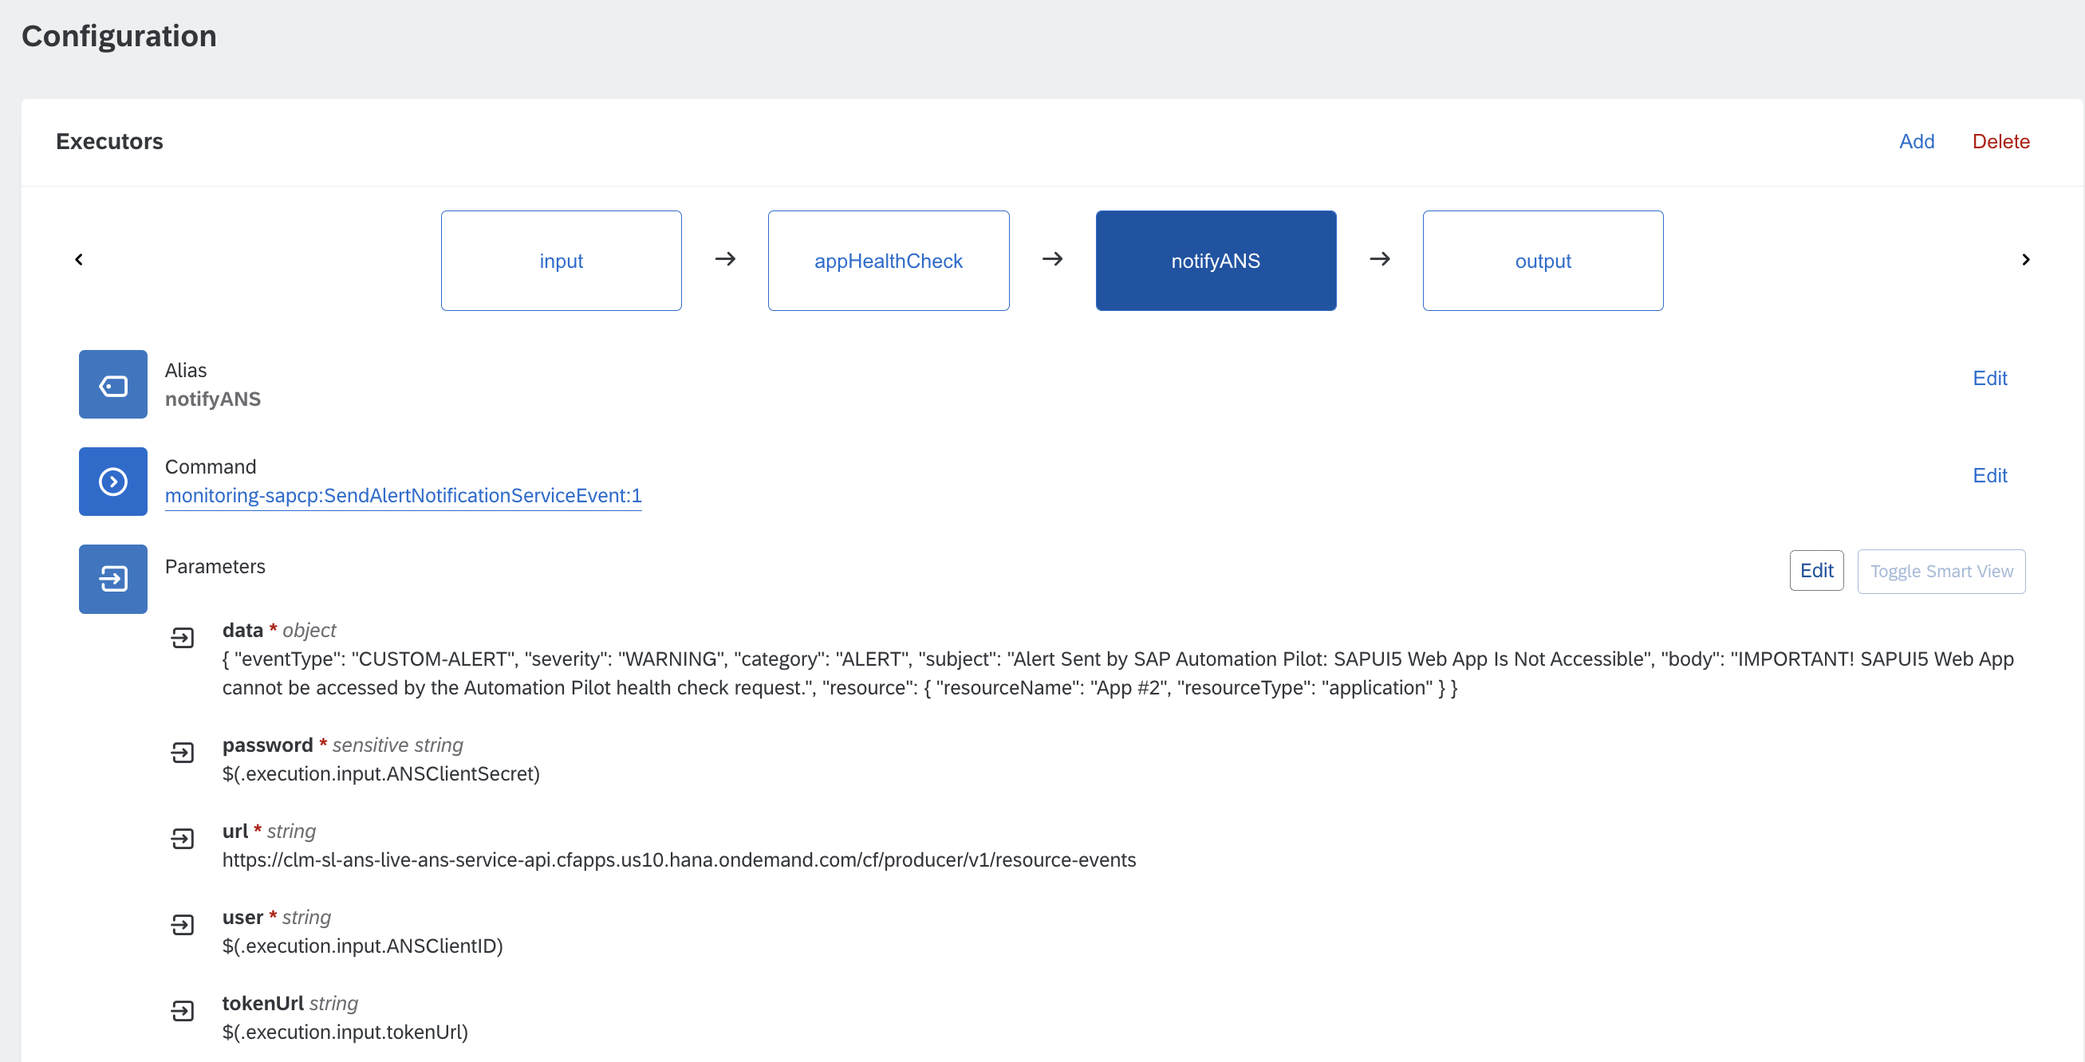
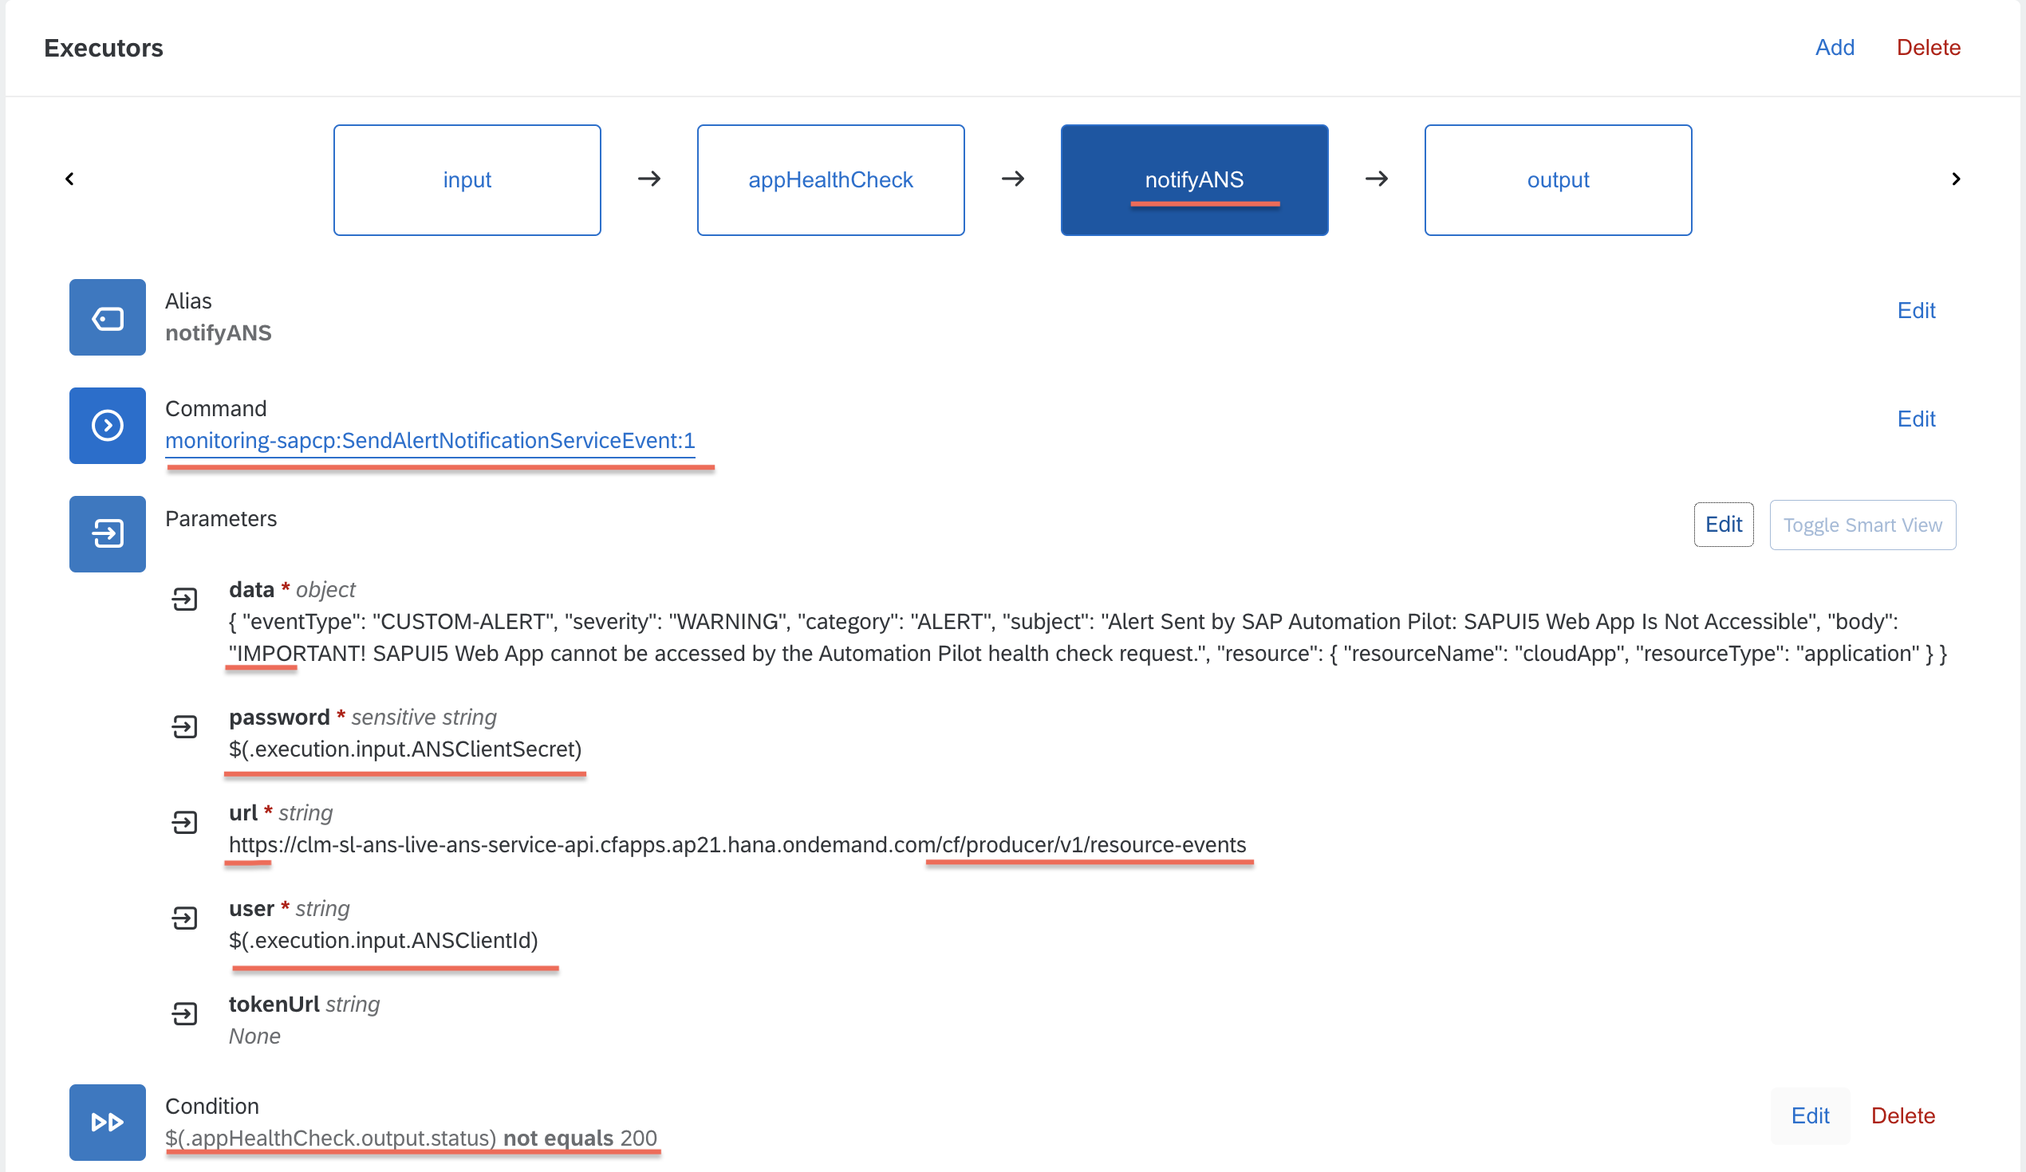
Formatting of ex1

diff --git a/exercises/1/README.md b/exercises/1/README.md
@@ -1,6 +1,6 @@
 # Exercise 2 - Description
 
-Within this execercise we are going to cover a potential use case of a development team that has developed an SAPUI5 Web App deployed on SAP BTP Cloud Foundry. However, sometimes there are disruptions / outages with their SAPUI5 Web App. The app is consumed through the SAP Launchpad service providing a central entry point with an easy and efficient access to relevant applications for the business users. Nevertheless, for a certain duration the app becomes inaccessible randomly for different users and as of now there are not any alerts sent out.   
+Within this execercise we are going to cover a potential use case of a development team that has developed an SAPUI5 Web App deployed on SAP BTP Cloud Foundry. The app is consumed through the SAP Launchpad service providing a central entry point with an easy and efficient access to relevant applications for the business users. Nevertheless, if the app becomes randomly inaccessible for a certain duration, as of now there are not alerts of that unavailability sent out.   
 
 ## Main goal
 By using monitoring and automation services within the SAP BTP DevOps portfolio, we should be capable to build an integrated monitoring and health checks solution for the SAP UI5 app, so that in case of a disruption there is an alert fired immediately.  
@@ -8,7 +8,7 @@ By using monitoring and automation services within the SAP BTP DevOps portfolio,
 ## Additional preparation
 (covered also during the workshop) 
 
-**IMPORTANT**: For the purpose of this excercise we will use the Cloud UI5 Application already created in the previous excercise, please see: [Exercise 1 - Build a Cloud UI5 Applicaiton on SAP Business Application Studio](../ex2/README.md)
+**IMPORTANT**: For the purpose of this excercise we will use the Cloud UI5 Application already created in the previous excercise, please see: [Exercise 1 - Build a Cloud UI5 Applicaiton on SAP Business Application Studio](../2/README.md)
 
 1. Configure your global account and subaccount in BTP 
 2. [Setup Alert Notification service](https://help.sap.com/docs/ALERT_NOTIFICATION/5967a369d4b74f7a9c2b91f5df8e6ab6/812b6e3ed8934648ad15780cd51721ef.html) 
@@ -23,6 +23,7 @@ These are the best resources to start from:
 - [SAP BTP Product Page ](https://help.sap.com/viewer/product/CP/Cloud/en-US?task=discover_task)
 - [What Is SAP BTP](https://help.sap.com/viewer/3504ec5ef16548778610c7e89cc0eac3/Cloud/en-US/73beb06e127f4e47b849aa95344aabe1.html)
 - [Cloud Foundry Environment](https://help.sap.com/viewer/3504ec5ef16548778610c7e89cc0eac3/Cloud/en-US/9c7092c7b7ae4d49bc8ae35fdd0e0b18.html)
+- [Kyma Environment](https://help.sap.com/docs/BTP/65de2977205c403bbc107264b8eccf4b/468c2f3c3ca24c2c8497ef9f83154c44.html)
 
 **2. Learn the basics of SAP Alert Notification service for SAP BTP**
 SAP Alert Notification service for SAP BTP is a cloud service offering in SAP Business Technology Platform (BTP) DevOps portfolio. It is a real-time alerting engine which is designed to collect alerts from different providers. Customers can subscribe to the alerts of their interest and choose the most appropriate channel for delivery. The service masters in collecting crucial technical information from the SAP BTP service, also it can handle information regarding any custom scenario within your own environment.  
@@ -34,7 +35,7 @@ The primary goal of SAP Automation Pilot is to simplify and automate complex
 
 ## Exercise: Concept
 
-The solution to be built is based on a synergy and native integration between the SAP Alert Notification Service and  SAP Automation Pilot as integrating their existing capabilities for Ops automation and Alerting in SAP BTP we can build the needed SAPUI5 Web App health check monitoring.  
+The solution to be built is based on a synergy and native integration between the SAP Alert Notification Service and  SAP Automation Pilot as integrating their existing capabilities for Ops automation and Alerting in SAP BTP we can build the needed SAPUI5 Web App health check monitoring. Using those powerful primitives of those services, interaction with complex app API and real-user-like monitoring can be easily achieved just as well.
 
 The architecture design covers the assumptions as listed below:  
 - There is an application health-check endpoint that to be called regularly  
@@ -63,12 +64,12 @@ Diagram explained:
 
 
 # Exercise 1 - Implementation
-
 **1. Cloud UI5 app health-check endpoint**
-- Within the already existing Cloud UI5 app please we need to setup a health-check endpoint. You can build the endpoint as an simple html file which is to be named `health-check.html`  
+
+- Within the already existing Cloud UI5 app please we need to setup a health-check endpoint. You can build the endpoint as a simple html file which is to be named `health-check.html`  
 <br>![](/exercises/1/images/01_03.png)
 NOTE: adding the html code underneath as well:
-```
+```html
 <!DOCTYPE html>
 <html>
     <body>
@@ -78,120 +79,137 @@ NOTE: adding the html code underneath as well:
     </body>
 </html>
 ```
-
-- In order to call the specific html file from Automation Pilot perspective you should include the following settings within the `xs-app.json` file within your SAP UI5 app. 
+- In order to query the specific html file without authorization, you should include the following settings within the `xs-app.json` file into your SAP UI5 app.
 <br>![](/exercises/1/images/01_04.png)
-
-NOTE: adding the settings undeneath as well: 
-```
- {
-      "source": "^/health-check.html$",
-      "service": "html5-apps-repo-rt",
-      "httpMethods": ["GET", "POST"],
-      "authenticationType": "none"
-    },
-
+```json
+{
+  "source": "^/health-check.html$",
+  "service": "html5-app-repo-rt",
+  "httpMethods": ["GET","POST"],
+  "authenticationType": "none"
+}
 ```
 
 - Build and redeploy the application via the SAP Business Applicaiton Studio (same steps as the ones for build app package and deployment described in Excercise #1) 
 
-- Check the health-check endpoint it is accessible for anonymous users. 
+- Check the health-check endpoint it is accessible for an anonymous users. 
 <br>![](/exercises/1/images/01_04_1.png)
 
-**2. SAP Automation Pilot health-check command**  
+**2. Setup Alert Notification**
+- To setup Alert Notification service for SAP BTP, go to the BTP cockpit, navigate to the subaccount, `Cloud Foundry` -> `Spaces` tab and enter your space.
+- Navigate to the `Marketplace` and on the `Alert Notification` card menu, coose `create`. Give it a name, default configurations will do.
+<br>![](/exercises/1/images/01_04_1_1.png)
+- In the `Instances` tab in the same space you'll find the service newly created instance. For it, create a service key with which the service API will be accessed.
+<br>NOTE: For the Configuration Json parameters use: 
+  ```json
+  {
+    "type": "BASIC"
+  }
+  ```
+  <br>![](/exercises/1/images/01_04_2.png)
+- From here, you're able to view the service key credentials and use them to grant other services access to this particular ANS instance, e.g. the Automation Pilot.
+<br>Keep them for a moment as we will need the credentials soon. 
+<br>![](/exercises/1/images/01_04_3.png)
+                
 
-- Access the Alert Notification service cockput and navigate to **Service Keys** >> **Create** so you can create service keys for the Alert Notification service and keep them for a moment as we will need the credentials soon. 
-<br>![](/exercises/1/images/01_05_11.png)
-NOTE: For the Configuration Json parameters use: 
-```
-{
-	"type": "BASIC"
-}
-```
+**3. Setup SAP Automation Pilot**
 
-- Create an Service Account for the Automaiton Pilot  and give the needed permissions as per the screenshot. NOTE: Authentication Type is to be set to `Basic`. 
+- Navigate to your subaccount's `Service Marketplace` tab and choose `Create` on Automation Pilot's cart to subscribe to the service
+<br>![](/exercises/1/images/01_04_4.png)
+
+- Navigate to the `Security`, `Users` tab and assing the `AutomationPilot_Admin` role collection to your user.
+<br>![](/exercises/1/images/01_04_5.png)
+
+- In the `Instances & Subscriptions` tab in your subaccount, open your Automation Pilot application subscription
+<br>![](/exercises/1/images/01_04_6.png)
+
+- Create an Service Account for the Automaiton Pilot and give the needed permissions as per the screenshot. 
+<br>NOTE: Set `Authentication Type` to `Basic`. 
 <br>![](/exercises/1/images/01_05_1.png)
 
 - Keep the credentials of your Service Account as it won't be available later but it will be required when creating input data within the SAP Automation Pilot. 
 <br>![](/exercises/1/images/01_05_2.png)
 
+**4. Model the health-check command in SAP Automation Pilot**  
+
+- In the `Own` Catalog page, create a new catalog to hold the health check commands and relevant inputs
+<br>![](/exercises/1/images/01_05_0.png)
+
 - Create an input `AutoPiSecret` within the Inputs section in Automation Pilot where we will add the Automaution Pilot password that we just have created and stored from the previous step. 
 <br>![](/exercises/1/images/01_05_3.png)
 
 - Create an input `cloudAppInputs` within the Inputs section in Automation Pilot where is going to be specified
- 
- `appMethod` - GET
- `endPoint` - the full URL for the health-check.html file we have created 
-See for reference the screenshot attached here: 
+  -  `appMethod`: GET
+  -  `endPoint`: the full URL for the health-check.html file we have created 
+<br>For reference, see the screenshot: 
 <br>![](/exercises/1/images/01_05_4.png)
 
 - Create the needed inputs for the Alert Notification service - named `ANSUserInput`.
 
-->  client_id -> copy value from service key created within the Alert Notification service
+  -> client_id -> copy value from service key created within the Alert Notification service
 
--> client_secret -> (sensitive data) copy value from service key created within the Alert Notification service
-The final result should look like this one:
+  -> client_secret -> (sensitive data) copy value from service key created within the Alert Notification service
+<br><br>The final result should look like this one:
 <br>![](/exercises/1/images/01_05_12.png)
 
-- For set up a health-check command please reuse  the command [HttpRequest already provided by the SAP Automation Pilot](https://help.sap.com/docs/AUTOMATION_PILOT/de3900c419f5492a8802274c17e07049/6ce1e04b7812411db04b80ea769ef46e.html), where you can modify the method and the URL.  
+- To set up a health-check command please reuse the command [HttpRequest already provided by the SAP Automation Pilot](https://help.sap.com/docs/AUTOMATION_PILOT/de3900c419f5492a8802274c17e07049/6ce1e04b7812411db04b80ea769ef46e.html), where you can modify the method and the URL.  
 <br>![](/exercises/1/images/01_05.png)
-
-To do so, access the command provided within the respective Provided Catalog by the SAP Automation Pilot - `HTTP Operations (http-sapcp)`, open it and then click on the **"Clone"** button. You can give a meaningful name to the newly created command, i.e. `AppHealhCheck`. 
+<br>To do so, access the command provided within the respective Provided Catalog by the SAP Automation Pilot - `HTTP Operations (http-sapcp)`, open it and then click on the **"Clone"** button. You can give a meaningful name to the newly created command, i.e. `AppHealhCheck`. 
 
 - Within the **Input Keys** section use the input keys that you have created in the previous steps and specify the input keys for: 
-
-`methond`
-`url`
-`password`
-
-See for reference the screenshots here: 
+  - `methond`
+  - `url`
+  - `password`
+<br>See for reference the screenshots here: 
 <br>![](/exercises/1/images/01_05_5.png)
 <br>![](/exercises/1/images/01_05_6.png)
 
 - Remove the Output Keys and keep just the one for `status`. 
 <br>![](/exercises/1/images/01_05_7.png)
 
-- Add an **Executor**  for the the command you just have cretead and use a command `http-sapcp:HttpRequest:1` and name this step `appHealthCheck`
+- Add an **Executor** for the the command you just have cretead and use a command `http-sapcp:HttpRequest:1` and name this step `appHealthCheck`
 
-Keep the paramenters within the command as specified here: 
+  Keep the paramenters within the command as specified here: 
 <br>![](/exercises/1/images/01_05_8.png)
 
 - Access the **output** and change the Output Values for `status` (number) to: `$(.appHealthCheck.output.status)`
 <br>![](/exercises/1/images/01_05_9.png)
 
-- Add a new executor `notifyANS`
-<br>![](/exercises/1/images/01_05_10.png)
+- Add a new executor `notifyANS` of the `monitoring-sapcp:SendAlertNotificationServiceEvent:1` command which would send the notification event
+<br>As we see the command expect to specify parameters for: 
+  - data: the notification event payload
+  - password: for the ANS service api
+  - url: endpoint of the ANS service
+  - user: for the ANS service API
+  - tokenURL (optional): used for other auth methods
 
-As we see the command expect to specify parameters for: 
-- data 
-- password 
-- url 
-- user 
-- tokenURL (optional) 
+  Therefore it is needed to add the following Input Keys from the `ANSUserInput` we already have created from the previous steps. 
+  - `ANSClientID` --> (string) Default Value: key client_id from input ANSUserInput
+  - `ANSClientSecret` --> (string / sensitive) Default Value: key client_secret from input ANSUserInput
+  - `url` --> value from ANS service key + `/cf/producer/v1/resource-events`
+  - The data object for the custom event that is to be produced by the SAP Automation Pilot in case the condition is met:  
+    ```json 
+    { "eventType": "CUSTOM-ALERT", "severity": "WARNING", "category": "ALERT", "subject": "Alert Sent by SAP Automation Pilot: SAPUI5 Web App Is Not Accessible", "body": "IMPORTANT! SAPUI5 Web App cannot be accessed by the Automation Pilot health check request.", "resource": { "resourceName": "cloudApp", "resourceType": "application" } }
+    ```
+  <br>  ![](/exercises/1/images/01_05_13_0.png)
+  <br>  ![](/exercises/1/images/01_05_13_1.png)
 
-Therefore it is needed to add the following Input Keys from the `ANSUserInput` we already have created from the previous steps. 
+- Condition of that executor to fire only when the response from our app was not 200
+  <br>  ![](/exercises/1/images/01_05_13_2.png)
 
-`ANSClientID` --> (string) Default Value: key client_id from input ANSUserInput
-`ANSClientSecret` --> (string / sensitive) Default Value: key client_secret from input ANSUserInput
-`url` --> value from ANS service key + `/cf/producer/v1/resource-events`
-
-- The data object for the custom event that is to be produced by the SAP Automation Pilot in case the condition is met:  
-`{ "eventType": "CUSTOM-ALERT", "severity": "WARNING", "category": "ALERT", "subject": "Alert Sent by SAP Automation Pilot: SAPUI5 Web App Is Not Accessible", "body": "IMPORTANT! SAPUI5 Web App cannot be accessed by the Automation Pilot health check request.", "resource": { "resourceName": "cloudApp", "resourceType": "application" } }`
-
-Expected result should like this setup: 
+  Resulting executor should like this: 
 <br>![](/exercises/1/images/01_05_13.png)
 
-- Conditions within the SAP Automation Pilot which will fire the custom event
-<br>![](/exercises/1/images/01_05_14.png)
-
-- The regular and repetitive health-checks calls are performed via the Automation Pilot built-in [job scheduler](https://help.sap.com/docs/AUTOMATION_PILOT/de3900c419f5492a8802274c17e07049/96863a2380d24ba4bab0145bbd78e411.html), currently set to execute the command in question each 5 mins.  
+- Scheduled, repetitive or one-time command executions can be set up via the SAP Automation Pilot's built-in [job scheduler](https://help.sap.com/docs/AUTOMATION_PILOT/de3900c419f5492a8802274c17e07049/96863a2380d24ba4bab0145bbd78e411.html). Set a schedule to execute the command in question each 5 minutes.  
 <br>![](/exercises/1/images/01_07.png)
 
-**3. SAP Alert Notification service subscription setup**
-- Condition is setup based on the event type received as shown underneath:   
+**3. SAP Alert Notification service notification subscription**
+<br>Create a new subscriptions for the notifications fired by our scheduled Automation Pilot command
+- Setup a condition, based on the event type received as shown underneath:   
 <br>![](/exercises/1/images/01_08.png)
 
-- The expected action is configured to fire an alert email:
+- The expected action is configured to send email
+Note: if this is the first time you'd be receiving email notifications via ANS you'd receive an email to confirm such deliveries first.
 <br>![](/exercises/1/images/01_09.png)
 
 **4. Expected result**
@@ -205,5 +223,5 @@ After completing these steps you will have created a health status check solutio
 ## Summary
 You've now have a simple app running on BTP CloudFoundry for which we have a health check monitoring and alerting. 
 
-Continue to - [Exercise 3 - HANA Cloud Monitoring and Automated Remediations](../2/README.md)
+Continue to - [Exercise 3 - HANA Cloud Monitoring and Automated Remediations](../3/README.md)
 

diff --git a/exercises/0/README.md b/exercises/0/README.md
@@ -32,35 +32,35 @@ Then you shall see the dev space is in status `STARTING`. Wait until it is in st
 
 9. Connect to a Cloud Foundry endpoint
 <br>You will need to log on to Cloud Foundry. To do that, start the command palette from the menu **View > Command Palette**, search for `cf:login`, and select the command `CF:Login to Cloud Foundry`.
-<br>![]/exercises/0/images/ex0_7.png)
+<br>![](/exercises/0/images/ex0_7.png)
 <br>Then, you shall enter the Cloud Foundry endpoint you want to use. Enter your email and your password to proceed.
-<br>![]/exercises/0/images/ex0_8.png)
+<br>![](/exercises/0/images/ex0_8.png)
 <br>Select the Cloud Foundry Organization and space you want use.<br> You will see messages in the lower right hand corner indicating that you are connected to the endpoint once these prompts have been answered.
-<br>![]/exercises/0/images/ex0_9.png)
+<br>![](/exercises/0/images/ex0_9.png)
 
 
 10. Create your simple UI5 Cloud app 
 <br>SAP Fiori tools includes an Application Generator that provides a wizard-style approach for creating applications.
 <br>To launch the Application Generator, start the command palette from the menu item **View > Command Palette**, search for `fiori generator`, and select the command Fiori: Open Application Generator
 <br>Specify the application type SAPUI5 freestyle and the floor plan `SAPUI5 Application` and go to the **Next** screen.
-<br>![]/exercises/0/images/ex0_10.png)
+<br>![](/exercises/0/images/ex0_10.png)
 <br>Specify the Data Source as `None` and click on the **Next** button. 
-<br>![]/exercises/0/images/ex0_11.png)
+<br>![](/exercises/0/images/ex0_11.png)
 _**NOTE** Considering this is going to be a static UI5 app - we won't pick up a Data Source at that point.
 <br>Keep `View1` within the **View name** entity selection field and click on the **Next** button. 
-<br>![]/exercises/0/images/ex0_12.png)
+<br>![](/exercises/0/images/ex0_12.png)
 <br>Within the Project Attributtes configuration please fill in the data as shown below and click on the **Finish** button. 
-<br>![]/exercises/0/images/ex0_13.png)
+<br>![](/exercises/0/images/ex0_13.png)
 <br>Then, you will see that dependencies are in a process of installation
-<br>![]/exercises/0/images/ex0_14.png)
+<br>![](/exercises/0/images/ex0_14.png)
 <br>Once, created , we can see the codebase for our application. 
-<br>![]/exercises/0/images/ex0_15.png)
+<br>![](/exercises/0/images/ex0_15.png)
 
 11. Modify the homepage of your application 
 <br>We can modify the homepage of our application by simply using the SAP Business Application Studio built-in Layout Editor feature. In order to do so, please navigatre to your app view at `View1.view.xml` 
-<br>![]/exercises/0/images/ex0_16.png)
+<br>![](/exercises/0/images/ex0_16.png)
 <br>Open the view with the  Layout Editor. 
-<br>![]/exercises/0/images/ex0_17.png)
+<br>![](/exercises/0/images/ex0_17.png)
 <br>By using the available controls we can add the following elements just to customise the homepage of our app: 
 - icon 
 - text area 
